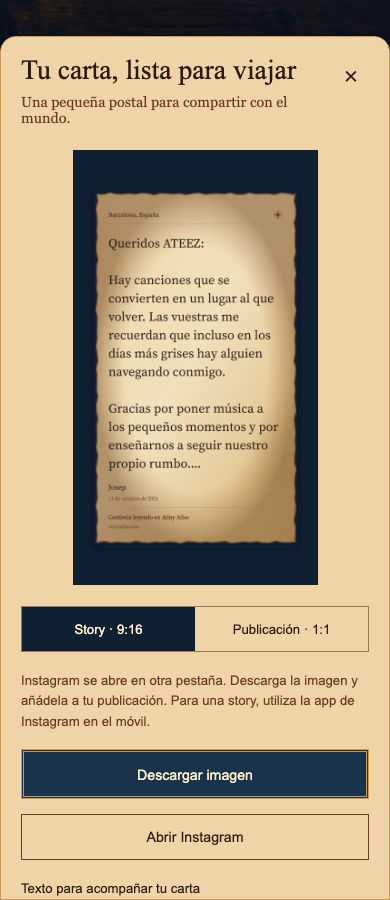
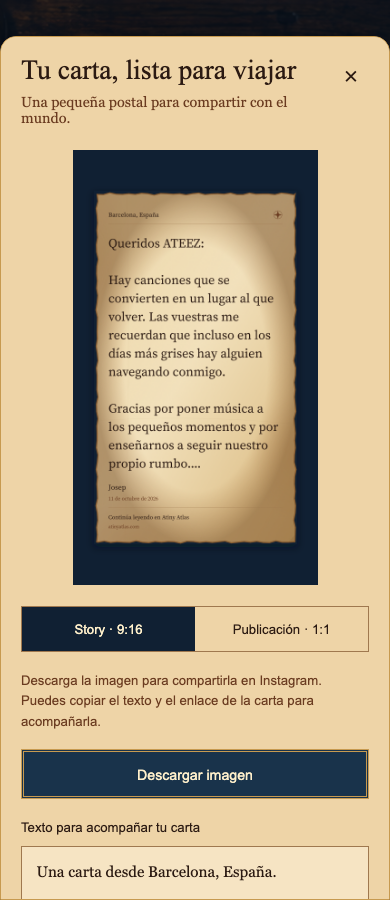
fix(share): target X and Threads composers and keep desktop Instagram downloads

Changed region(s): [[0.0308, 0.9022, 0.9538, 1.0], [0.0615, 0.7467, 0.9231, 0.8089]]

diff --git a/tests/visual/letter-share.spec.ts b/tests/visual/letter-share.spec.ts
@@ -3,7 +3,6 @@ import {expect, test} from '@playwright/test'
 for (const width of [1440, 390]) {
   test(`own letter sharing, preview and download at ${width}px`, async ({page}) => {
     await page.setViewportSize({width, height:900})
-    await page.context().route('https://www.instagram.com/**', route => route.fulfill({body:'Instagram'}))
     await page.goto('/?variant=share')
     const trigger = page.getByRole('button', {name:'Compartir', exact:true})
     await trigger.click()
@@ -18,11 +17,7 @@ for (const width of [1440, 390]) {
     await page.keyboard.press('Escape')
     await expect(trigger).toBeFocused()
     await trigger.click()
-    const instagramTab = page.waitForEvent('popup')
-    await page.getByRole('link', {name:'Instagram · Story'}).click()
-    const instagramPage = await instagramTab
-    await expect(instagramPage).toHaveURL('https://www.instagram.com/')
-    await instagramPage.close()
+    await page.getByRole('button', {name:'Instagram · Story'}).click()
     const dialog = page.getByRole('dialog', {name:'Tu carta, lista para viajar'})
     await expect(dialog).toBeVisible()
     const image = dialog.getByRole('img')
@@ -54,33 +49,28 @@ for (const width of [1440, 390]) {
 
 test('sharing from the list keeps both Instagram destinations and hides removed options', async ({page}) => {
   await page.setViewportSize({width:390, height:900})
-  await page.context().route('https://www.instagram.com/**', route => route.fulfill({body:'Instagram'}))
   await page.goto('/?variant=share-list')
   await page.getByRole('button', {name:'Compartir', exact:true}).click()
   await expect(page.getByRole('dialog', {name:'Comparte tu carta'})).toBeVisible()
   await expect(page.getByRole('link', {name:'LinkedIn'})).toHaveCount(0)
   await expect(page.getByRole('button', {name:'Copiar enlace de Atiny Atlas'})).toHaveCount(0)
   await page.screenshot({path:test.info().outputPath('share-list-mobile.png')})
-  const opened = page.waitForEvent('popup')
-  await page.getByRole('link', {name:'Instagram · Publicación'}).click()
-  const instagramPage = await opened
-  await expect(instagramPage).toHaveURL('https://www.instagram.com/')
-  await instagramPage.close()
+  await page.getByRole('button', {name:'Instagram · Publicación'}).click()
   const image = page.getByRole('img')
   await expect(image).toBeVisible()
   await expect.poll(() => image.evaluate((img:HTMLImageElement) => img.naturalHeight)).toBe(1080)
 })
 
 
-test('desktop opens each network in a new tab even with native share APIs', async ({page}) => {
+test('desktop opens X and Threads directly even with native share support', async ({page}) => {
   await page.addInitScript(() => {
     Object.defineProperty(navigator, 'canShare', {value:() => true, configurable:true})
     Object.defineProperty(navigator, 'share', {value:async () => {throw new Error('desktop must use the network link')}, configurable:true})
   })
-  for (const pattern of ['https://twitter.com/**','https://www.threads.com/**','https://www.instagram.com/**']) {
+  for (const pattern of ['https://twitter.com/**','https://www.threads.com/**']) {
     await page.context().route(pattern, route => route.fulfill({body:'External network'}))
   }
-  for (const [label, host, path] of [['X / Twitter','twitter.com','/intent/tweet'], ['Threads','www.threads.com','/intent/post'], ['Instagram · Story','www.instagram.com','/'], ['Instagram · Publicación','www.instagram.com','/']] as const) {
+  for (const [label, host, path] of [['X / Twitter','twitter.com','/intent/tweet'], ['Threads','www.threads.com','/intent/post']] as const) {
     await page.goto('/?variant=share')
     await page.getByRole('button', {name:'Compartir', exact:true}).click()
     const popupPromise = page.waitForEvent('popup')
@@ -90,10 +80,52 @@ test('desktop opens each network in a new tab even with native share APIs', asyn
     const url = new URL(popup.url())
     expect(url.hostname).toBe(host)
     expect(url.pathname).toBe(path)
-    if (host !== 'www.instagram.com') {
+    expect(url.searchParams.get('text')).toContain('Lee mi carta completa')
+    expect(url.searchParams.get('url')).toContain('/messages/')
+    await popup.close()
+  }
+})
+
+
+test('mobile X and Threads open their composers without invoking the native share menu', async ({browser}) => {
+  const context = await browser.newContext({baseURL:test.info().project.use.baseURL, userAgent:'Mozilla/5.0 (Linux; Android 14; Mobile) Chrome/120.0.0.0 Mobile Safari/537.36', viewport:{width:390,height:900}})
+  try {
+    await context.addInitScript(() => {
+      Object.defineProperty(navigator, 'share', {value:async () => {throw new Error('network action must not invoke native sharing')}, configurable:true})
+      Object.defineProperty(navigator, 'canShare', {value:() => true, configurable:true})
+    })
+    for (const pattern of ['https://twitter.com/**','https://www.threads.com/**']) await context.route(pattern, route => route.fulfill({body:'Network composer'}))
+    const page = await context.newPage()
+    for (const [label, host] of [['X / Twitter','twitter.com'],['Threads','www.threads.com']] as const) {
+      await page.goto('/?variant=share')
+      await page.getByRole('button', {name:'Compartir', exact:true}).click()
+      const popupPromise = page.waitForEvent('popup')
+      await page.getByRole('link', {name:label, exact:true}).click()
+      const popup = await popupPromise
+      await popup.waitForLoadState('domcontentloaded')
+      const url = new URL(popup.url())
+      expect(url.hostname).toBe(host)
       expect(url.searchParams.get('text')).toContain('Lee mi carta completa')
       expect(url.searchParams.get('url')).toContain('/messages/')
+      await popup.close()
     }
-    await popup.close()
+  } finally {await context.close()}
+})
+
+test('desktop Instagram leaves only the chosen image download screen open', async ({page}) => {
+  await page.addInitScript(() => {
+    Object.defineProperty(navigator, 'share', {value:async () => {throw new Error('desktop Instagram must not invoke sharing')}, configurable:true})
+    Object.defineProperty(navigator, 'canShare', {value:() => true, configurable:true})
+  })
+  for (const [label, format] of [['Instagram · Story','story'], ['Instagram · Publicación','square']] as const) {
+    await page.goto('/?variant=share')
+    await page.getByRole('button', {name:'Compartir', exact:true}).click()
+    await page.getByRole('button', {name:label}).click()
+    const download = page.getByRole('link', {name:'Descargar imagen'})
+    await expect(download).toHaveAttribute('download', new RegExp(`${format}\\.png$`))
+    expect(page.context().pages()).toHaveLength(1)
+    await expect(page.getByRole('link', {name:'Abrir Instagram'})).toHaveCount(0)
+    await expect(page.getByRole('button', {name:'Compartir imagen'})).toHaveCount(0)
+    await page.getByRole('button', {name:'Cerrar', exact:true}).click()
   }
 })

diff --git a/tests/unit/components/messages/letter-share.test.tsx b/tests/unit/components/messages/letter-share.test.tsx
@@ -93,7 +93,7 @@ it('opens the Instagram post action with a square image', async () => {
   expect(fetch).toHaveBeenCalledWith(expect.stringContaining('format=square&locale=en'), expect.anything())
 })
 
-it.each([['Instagram story','story'], ['Instagram post','square'], ['X / Twitter','square'], ['Threads','square']] as const)('hands %s directly to the native menu with its prepared image', async (label, format) => {
+it.each([['Instagram story','story'], ['Instagram post','square']] as const)('hands %s directly to the native menu with its prepared image', async (label, format) => {
   const native = vi.fn().mockResolvedValue(undefined)
   Object.defineProperty(navigator, 'share', {configurable:true, value:native})
   Object.defineProperty(navigator, 'canShare', {configurable:true, value:() => true})
@@ -102,8 +102,7 @@ it.each([['Instagram story','story'], ['Instagram post','square'], ['X / Twitter
   await waitFor(() => expect(action).toBeEnabled())
   fireEvent.click(action)
   await waitFor(() => expect(native).toHaveBeenCalledWith(expect.objectContaining({files:[expect.objectContaining({name:expect.stringContaining(`${format}.png`)})]})))
-  if (label === 'Threads' || label === 'X / Twitter') expect(native.mock.calls[0][0].text).toContain('Read my full letter')
-  else expect(native.mock.calls[0][0].text).toBeUndefined()
+  expect(native.mock.calls[0][0].text).toBeUndefined()
 })
 
 it('falls back to text links and explains a failed native image preparation', async () => {
@@ -125,21 +124,40 @@ it.each(['Mozilla/5.0 (Macintosh; Intel Mac OS X 15_0)', 'Mozilla/5.0 (Windows N
   expect(screen.getByRole('link', {name:'X / Twitter'})).toHaveAttribute('href', expect.stringContaining('intent/tweet'))
   expect(screen.getByRole('link', {name:'Threads'})).toHaveAttribute('href', expect.stringContaining('intent/post'))
   for (const name of ['Instagram story', 'Instagram post']) {
-    const link = screen.getByRole('link', {name})
-    expect(link).toHaveAttribute('href', 'https://www.instagram.com/')
-    expect(link).toHaveAttribute('target', '_blank')
+    expect(screen.getByRole('button', {name})).toBeEnabled()
+    expect(screen.queryByRole('link', {name})).toBeNull()
   }
   expect(fetch).not.toHaveBeenCalled()
 })
 
-it('keeps native PNG sharing on Android tablets whose mobile hint is false', async () => {
-  vi.mocked(Object.getOwnPropertyDescriptor(navigator, 'userAgent')!.get!).mockReturnValue('Mozilla/5.0 (Linux; Android 14; Tablet)')
-  Object.defineProperty(navigator, 'userAgentData', {configurable:true, value:{mobile:false, platform:'Android'}})
+it.each([
+  ['Android phone', 'Mozilla/5.0 (Linux; Android 14; Mobile)', true],
+  ['Android tablet', 'Mozilla/5.0 (Linux; Android 14; Tablet)', false],
+  ['iPhone', 'Mozilla/5.0 (iPhone; CPU iPhone OS 18_0 like Mac OS X)', true],
+] as const)('opens targeted X and Threads composers on %s instead of the system share sheet', async (_device, userAgent, mobile) => {
+  vi.mocked(Object.getOwnPropertyDescriptor(navigator, 'userAgent')!.get!).mockReturnValue(userAgent)
+  Object.defineProperty(navigator, 'userAgentData', {configurable:true, value:{mobile, platform:_device === 'iPhone' ? 'iOS' : 'Android'}})
   Object.defineProperty(navigator, 'share', {configurable:true, value:vi.fn().mockResolvedValue(undefined)})
   Object.defineProperty(navigator, 'canShare', {configurable:true, value:() => true})
   await open()
-  const action = screen.getByRole('button', {name:'Threads'})
-  await waitFor(() => expect(action).toBeEnabled())
-  fireEvent.click(action)
-  await waitFor(() => expect(navigator.share).toHaveBeenCalledWith(expect.objectContaining({files:[expect.any(File)]})))
+  for (const [name, path] of [['X / Twitter','intent/tweet'], ['Threads','intent/post']] as const) {
+    const link = screen.getByRole('link', {name})
+    expect(link).toHaveAttribute('href', expect.stringContaining(path))
+    expect(link).toHaveAttribute('target', '_blank')
+    const url = new URL(link.getAttribute('href')!)
+    expect(url.searchParams.get('text')).toContain('Read my full letter')
+    expect(url.searchParams.get('url')).toContain(message.publicId)
+  }
+  expect(navigator.share).not.toHaveBeenCalled()
+})
+
+it.each([['Instagram story','story'], ['Instagram post','square']] as const)('keeps desktop %s on the image download screen without an Instagram link', async (label, format) => {
+  vi.mocked(Object.getOwnPropertyDescriptor(navigator, 'userAgent')!.get!).mockReturnValue('Mozilla/5.0 (Macintosh; Intel Mac OS X 15_0)')
+  Object.defineProperty(navigator, 'share', {configurable:true, value:vi.fn()})
+  Object.defineProperty(navigator, 'canShare', {configurable:true, value:() => true})
+  await open()
+  fireEvent.click(screen.getByRole('button', {name:label}))
+  expect(await screen.findByRole('link', {name:'Download image'})).toHaveAttribute('download', expect.stringContaining(`${format}.png`))
+  expect(screen.queryByRole('link', {name:'Open Instagram'})).toBeNull()
+  expect(screen.queryByRole('button', {name:'Share image'})).toBeNull()
 })

diff --git a/src/components/messages/letter-share.tsx b/src/components/messages/letter-share.tsx
@@ -6,7 +6,7 @@ import { Button, Dialog, DialogTrigger, Heading, Popover } from 'react-aria-comp
 import type { ShareLetter } from '@/domain/messages/letter-share'
 import { prepareLetterShare, type SocialDestination } from '@/domain/messages/letter-share'
 import { copyShareValue, LetterShareFeedback, wasShareCancelled, type ShareFeedback } from './letter-share-feedback'
-import { isMobileShareDevice, supportsMobileFileSharing } from './letter-share-device'
+import { supportsMobileFileSharing } from './letter-share-device'
 import { useLetterShareFiles, type LetterImageFormat } from './use-letter-share-files'
 import { LetterShareImageDialog } from './letter-share-image-dialog'
 
@@ -31,7 +31,6 @@ export function LetterShare({message, origin}: {message:ShareLetter; origin:stri
   const [feedback, setFeedback] = useState<ShareFeedback>(null)
   const trigger = useRef<HTMLButtonElement>(null)
   const canShare = useSyncExternalStore(subscribe, nativeSupported, serverSupported)
-  const mobileDevice = useSyncExternalStore(subscribe, isMobileShareDevice, serverSupported)
   const canShareFiles = useSyncExternalStore(subscribe, supportsMobileFileSharing, serverSupported)
   const {files, loading} = useLetterShareFiles(message.publicId, locale, open && canShareFiles, generation)
   const share = prepareLetterShare(message, locale, origin)
@@ -41,11 +40,10 @@ export function LetterShare({message, origin}: {message:ShareLetter; origin:stri
     try { await navigator.share({title:t('title'), text:share.text}) }
     catch (error) { if (!wasShareCancelled(error)) setFeedback({kind:'error', message:t('nativeError')}) }
   }
-  async function sendImage(format:LetterImageFormat, destination?:'x' | 'threads') {
+  async function sendImage(format:LetterImageFormat) {
     const file = files[format]
     if (!file) {setOpen(false); setImageFormat(format); return}
-    const text = destination === 'x' ? `${new URL(share.destinations.x).searchParams.get('text')}\n${share.url}` : share.text
-    const data = destination ? {files:[file], text} : {files:[file]}
+    const data = {files:[file]}
     if (!navigator.canShare?.(data)) {setOpen(false); setImageFormat(format); return}
     setSending(true)
     setFeedback(null)
@@ -73,15 +71,11 @@ export function LetterShare({message, origin}: {message:ShareLetter; origin:stri
           <header className="letter-share-menu-header"><Heading slot="title">{t('title')}</Heading><Button className="letter-share-close" aria-label={t('close')} onPress={() => setOpen(false)}>×</Button></header>
           <p className="letter-share-menu-intro">{t('intro')}</p>
           <div className="letter-share-socials">
-            {socials.map(social => canShareFiles && (social.id === 'x' || social.id === 'threads') && (files.square || loading)
-              ? <Button key={social.id} isDisabled={(!files.square && loading) || sending} onPress={() => {void sendImage('square', social.id as 'x' | 'threads')}}><span className="letter-share-social-mark" aria-hidden="true">{social.mark}</span><span>{social.label}</span></Button>
-              : <a key={social.id} href={share.destinations[social.id]} target="_blank" rel="noopener noreferrer" onClick={() => setOpen(false)}><span className="letter-share-social-mark" aria-hidden="true">{social.mark}</span><span>{social.label}</span></a>)}
+            {socials.map(social => <a key={social.id} href={share.destinations[social.id]} target="_blank" rel="noopener noreferrer" onClick={() => setOpen(false)}><span className="letter-share-social-mark" aria-hidden="true">{social.mark}</span><span>{social.label}</span></a>)}
             {(['story', 'square'] as const).map(format => {
               const label = t(format === 'story' ? 'instagramStory' : 'instagramPost')
               const content = <><span className="letter-share-social-mark" aria-hidden="true"><svg width="20" height="20" viewBox="0 0 24 24" fill="none" stroke="currentColor" strokeWidth="1.5"><rect x="3" y="3" width="18" height="18" rx={format === 'story' ? 5 : 2}/><circle cx="12" cy="12" r="4"/></svg></span><span>{label}</span></>
-              return mobileDevice
-                ? <Button key={format} isDisabled={(!files[format] && loading) || sending} onPress={() => instagram(format)}>{content}</Button>
-                : <a key={format} href="https://www.instagram.com/" target="_blank" rel="noopener noreferrer" onClick={() => {setOpen(false); setImageFormat(format)}}>{content}</a>
+              return <Button key={format} isDisabled={(!files[format] && loading) || sending} onPress={() => instagram(format)}>{content}</Button>
             })}
           </div>
           <div className="letter-share-menu-actions">

diff --git a/src/components/messages/letter-share-image-dialog.tsx b/src/components/messages/letter-share-image-dialog.tsx
@@ -47,7 +47,7 @@ export function LetterShareImageDialog({message, origin, onClose, initialFormat 
   }, [message.publicId, format, locale, attempt])
 
   let canShareFile = false
-  try { canShareFile = Boolean(ready && typeof navigator.share === 'function' && navigator.canShare?.({files:[ready.file]})) } catch { /* Keep download available. */ }
+  try { canShareFile = Boolean(mobileDevice && ready && typeof navigator.share === 'function' && navigator.canShare?.({files:[ready.file]})) } catch { /* Keep download available. */ }
   async function shareImage() {
     if (!ready || sharing) return
     setSharing(true)
@@ -76,7 +76,7 @@ export function LetterShareImageDialog({message, origin, onClose, initialFormat 
             </div>
             <p className="letter-share-image-hint">{t(mobileDevice ? 'instagramHint' : 'instagramDesktopHint')}</p>
             {ready ? <a className="letter-share-primary" href={ready.url} download={ready.file.name}>{t('download')}</a> : <Button className="letter-share-primary" isDisabled>{t('download')}</Button>}
-            <a className="letter-share-secondary" href="https://www.instagram.com/" target="_blank" rel="noopener noreferrer">{t('openInstagram')}</a>
+            {mobileDevice ? <a className="letter-share-secondary" href="https://www.instagram.com/" target="_blank" rel="noopener noreferrer">{t('openInstagram')}</a> : null}
             {canShareFile ? <Button className="letter-share-secondary" isDisabled={sharing} onPress={() => {void shareImage()}}>{t('shareImage')}</Button> : null}
             <label className="letter-share-caption">{t('preparedText')}<textarea readOnly value={share.text} onFocus={event => event.currentTarget.select()} /></label>
             <div className="letter-share-copy-actions">

diff --git a/docs/previews/share-own-letters/README.md b/docs/previews/share-own-letters/README.md
@@ -2,7 +2,7 @@
 
 Ruta de producto: **Mis cartas → Compartir** (también disponible en el detalle). El control aparece únicamente para el autor de una carta que siga visible públicamente.
 
-- Threads y X envían imagen y texto por el menú nativo en dispositivos compatibles; en otros navegadores abren su compositor con extracto/enlace e imagen de vista previa. El usuario revisa y publica en la plataforma.
+- Threads y X abren siempre su compositor específico con extracto/enlace e imagen de vista previa, tanto en móvil como en ordenador. El usuario revisa y publica en la plataforma.
 - WhatsApp, Telegram, Facebook, Pinterest reciben sus parámetros de compartir.
 - El menú copia el enlace de la carta; si el portapapeles falla, ofrece texto seleccionable.
 - Instagram ofrece Story y Publicación. En móviles compatibles, las imágenes se preparan al abrir el menú y el clic las envía al menú nativo. En otros navegadores, se abre la postal con el formato elegido para descargarla y copiar texto/enlace.
@@ -28,4 +28,4 @@ Probar los compositores externos con cuentas reales y compartir archivos en iOS/
 
 La postal utiliza pergamino con borde irregular, textura de fibras y desgaste en los márgenes. El navegador no puede elegir por el usuario la aplicación nativa ni forzar el editor de Stories o el feed de Instagram; el formato preparado se entrega al menú del móvil.
 
-En ordenador, X y Threads abren siempre su compositor en otra pestaña. Las dos opciones de Instagram abren su web y dejan preparado el PNG en la vista previa, con descarga y un enlace para volver a Instagram. Tener un menú nativo de compartir en el ordenador no sustituye estos enlaces por red.
+En ordenador, X y Threads abren siempre su compositor en otra pestaña. Las dos opciones de Instagram mantienen únicamente la pantalla de descarga del formato elegido; no abren Instagram ni el selector del sistema. El envío nativo del PNG a Instagram se conserva en móvil.

diff --git a/docs/superpowers/plans/2026-10-11-share-own-letters.md b/docs/superpowers/plans/2026-10-11-share-own-letters.md
@@ -95,6 +95,8 @@ expect(await screen.findByRole('dialog', {name: 'Share your letter'})).toBeVisib
 - [x] Reutilizar el menú en Mis cartas con autor/origen de la sesión autorizada y visibilidad por fila.
 - [x] Eliminar LinkedIn y el botón de compartir la página general.
 - [x] Separar Instagram story/publicación y usar el formato elegido en el envío o vista previa.
-- [x] Preparar archivos antes del clic nativo; PNG+texto en X/Threads, archivo sin texto en Instagram; conservar compositores web/descarga.
+- [x] Preparar archivos antes del clic nativo para Instagram; X/Threads abren siempre sus compositores con texto/enlace; conservar descarga.
 - [x] Dibujar pergamino con SVG determinista y recursos locales, conservando la geometría verificada.
 - [x] Añadir regresiones del listado, formatos y envío nativo; inspeccionar capturas; actualizar la misma PR.
+
+- [x] Tras la prueba real de Android, retirar el selector genérico de X/Threads y conservarlo para Instagram móvil. Instagram en escritorio queda únicamente en la pantalla de descarga del formato elegido, sin pestañas ni selector nativo.
